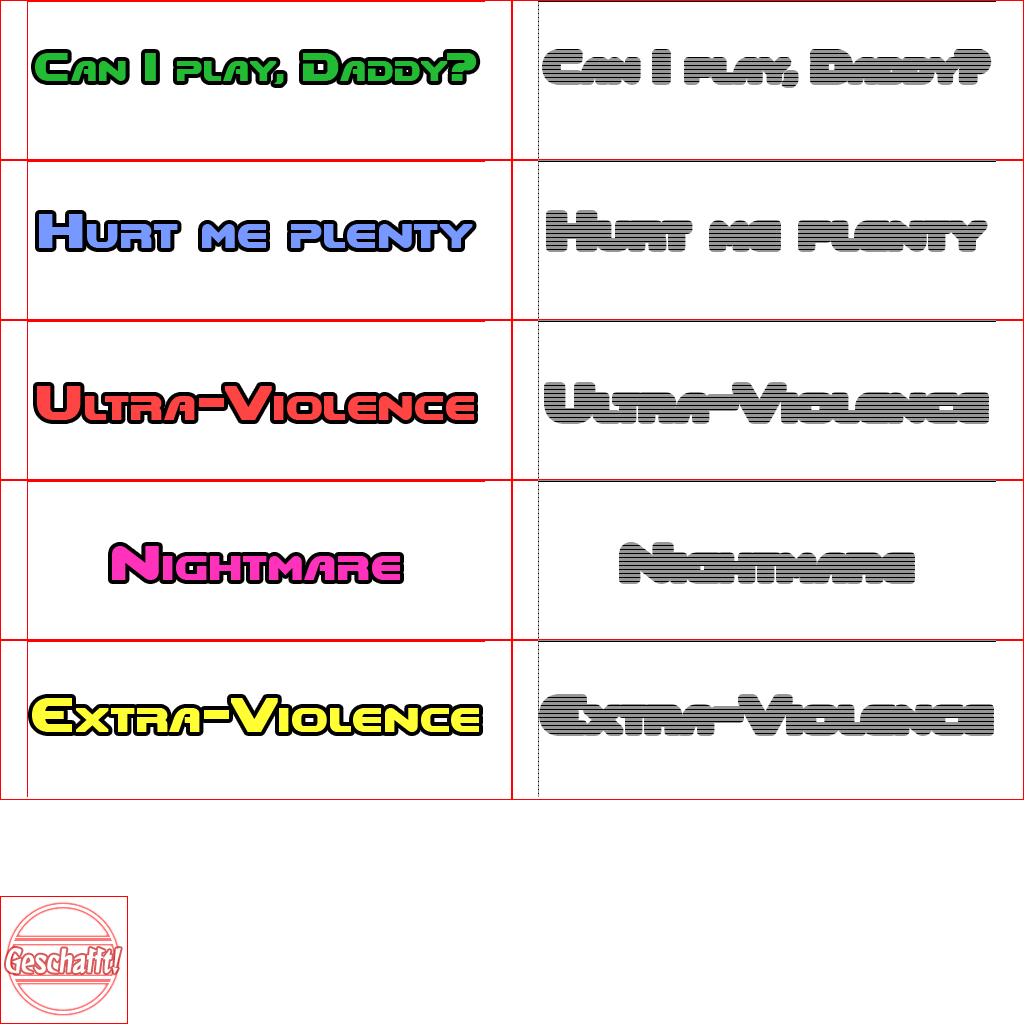
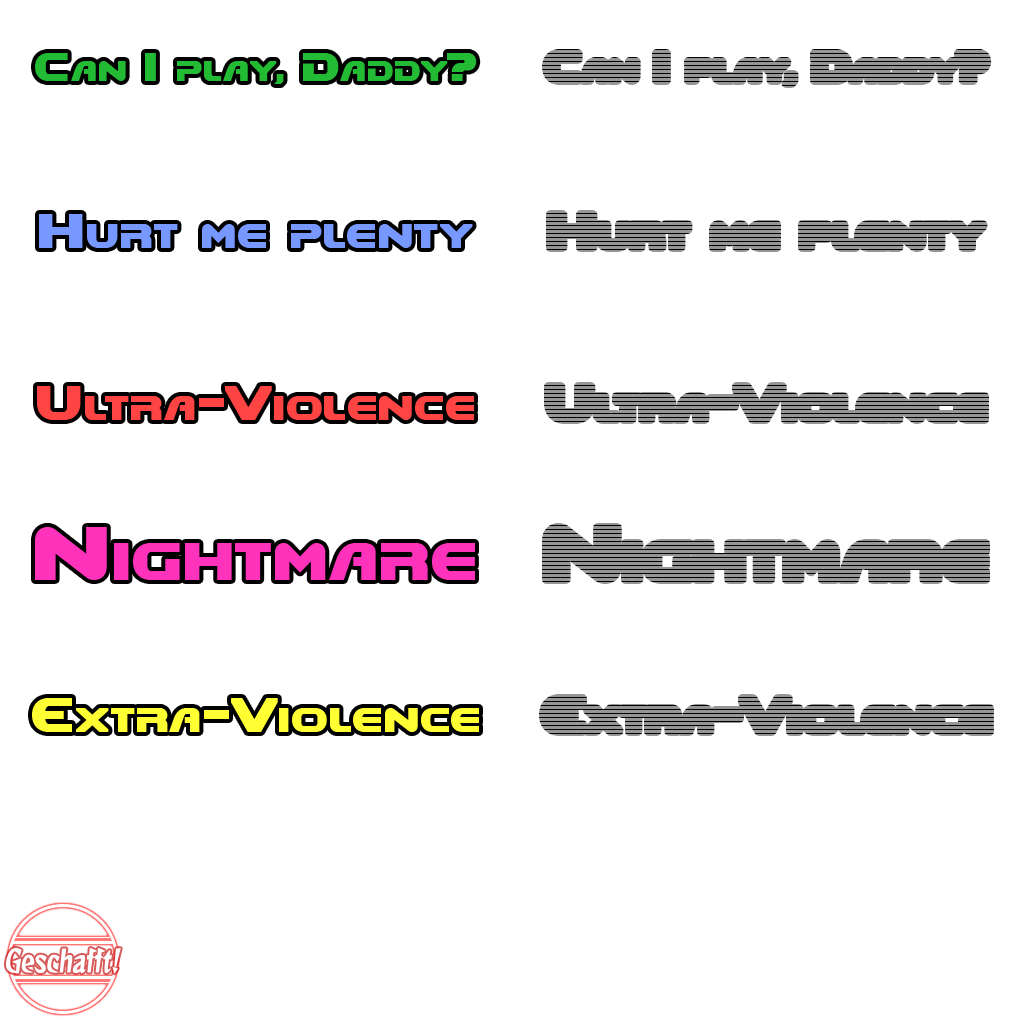
Vorerst finaler Test

Changed region(s): [[0.0312, 0.5, 0.4688, 0.5938], [0.5, 0.5, 0.9688, 0.5938]]

diff --git a/th17_doom_bgm/files.js b/th17_doom_bgm/files.js
@@ -19,6 +19,6 @@
 	"th17/th17_16.ogg": 2323525845,
 	"th17/th17_17.ogg": 821707325,
 	"th17/th17_18.ogg": 1272972061,
-	"th17/title/rank00.png": 901713092,
+	"th17/title/rank00.png": 3037625793,
 	"th17/title/rank00tr.png": null
 }
